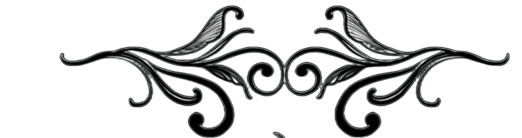
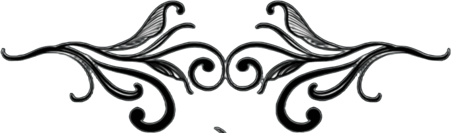
aa

diff --git a/index.html b/index.html
@@ -402,6 +402,9 @@
 
                     <!-- BIOGRAFÍA & VISIÓN (ORNAMENTO 2 PERFECTAMENTE CENTRADO) -->
                     <div class="md:col-span-7 space-y-4 text-center flex flex-col items-center">
+                        <div class="flex justify-center w-full mb-1">
+                            <img src="assets/ornamento4.png" alt="Ornamento" class="h-16 md:h-24 opacity-90 object-contain mx-auto" onerror="this.onerror=null; this.src='ornamento4.png';">
+                        </div>
                         <span class="font-mono text-[10px] uppercase tracking-[0.25em] text-yorkaDarkAccent font-bold block w-full text-center">
                             ✦ Conoce a la Artista ✦
                         </span>
@@ -458,6 +461,9 @@
 
             <div class="max-w-6xl mx-auto px-6 relative z-10">
                 <div class="mb-10 text-center flex flex-col items-center">
+                    <div class="flex justify-center w-full mb-1">
+                        <img src="assets/ornamento4.png" alt="Ornamento" class="h-16 md:h-24 opacity-90 object-contain mx-auto" onerror="this.onerror=null; this.src='ornamento4.png';">
+                    </div>
                     <span class="font-mono text-[10px] uppercase tracking-[0.25em] text-yorkaDarkAccent font-bold block mb-2">
                         ✦ Ilustraciones & Flashes ✦
                     </span>
@@ -512,6 +518,9 @@
 
             <div class="max-w-6xl mx-auto px-6 relative z-10">
                 <div class="mb-10 text-center relative flex flex-col items-center">
+                    <div class="flex justify-center w-full mb-1">
+                        <img src="assets/ornamento4.png" alt="Ornamento" class="h-16 md:h-24 opacity-90 object-contain mx-auto" onerror="this.onerror=null; this.src='ornamento4.png';">
+                    </div>
                     <span class="font-mono text-[10px] uppercase tracking-[0.25em] text-yorkaDarkAccent font-bold block mb-2">
                         ✦ Galería & Trabajos Realizados ✦
                     </span>
@@ -655,6 +664,9 @@
 
             <div class="max-w-4xl mx-auto px-6 relative z-10">
                 <div class="mb-10 text-center flex flex-col items-center">
+                    <div class="flex justify-center w-full mb-1">
+                        <img src="assets/ornamento4.png" alt="Ornamento" class="h-16 md:h-24 opacity-90 object-contain mx-auto" onerror="this.onerror=null; this.src='ornamento4.png';">
+                    </div>
                     <span class="font-mono text-[10px] uppercase tracking-[0.25em] text-yorkaDarkAccent font-bold block mb-2">
                         ✦ Recomendaciones ✦
                     </span>
@@ -709,6 +721,9 @@
 
             <div class="max-w-6xl mx-auto px-6 relative z-10">
                 <div class="text-center mb-10 flex flex-col items-center">
+                    <div class="flex justify-center w-full mb-1">
+                        <img src="assets/ornamento4.png" alt="Ornamento" class="h-16 md:h-24 opacity-90 object-contain mx-auto" onerror="this.onerror=null; this.src='ornamento4.png';">
+                    </div>
                     <span class="font-mono text-[10px] uppercase tracking-[0.25em] text-yorkaDarkAccent font-bold block mb-1">
                         ✦ Reserva Tu Sesión ✦
                     </span>
